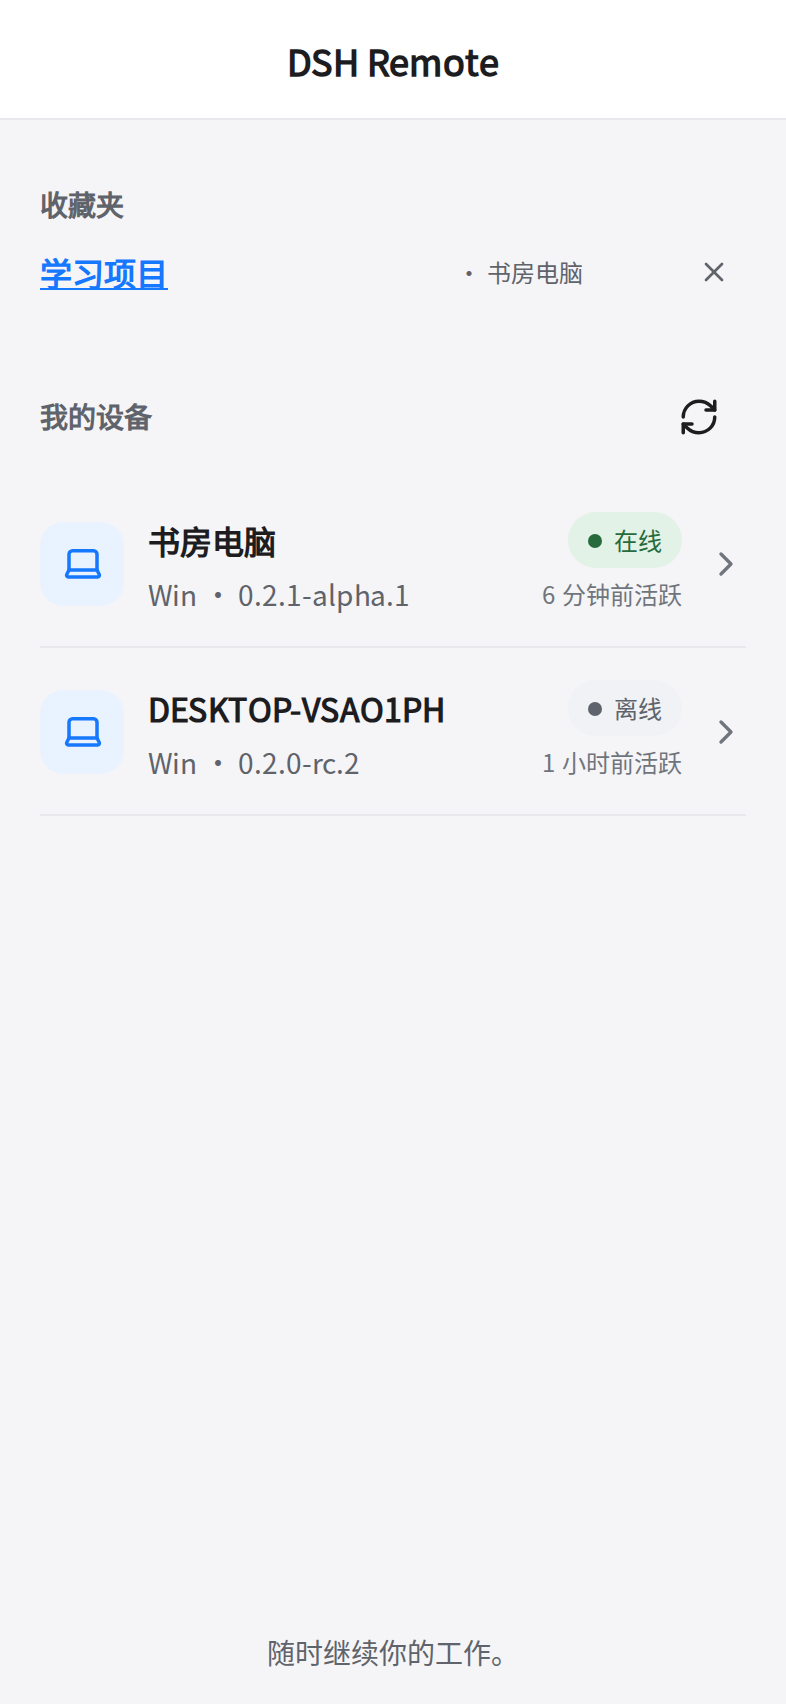
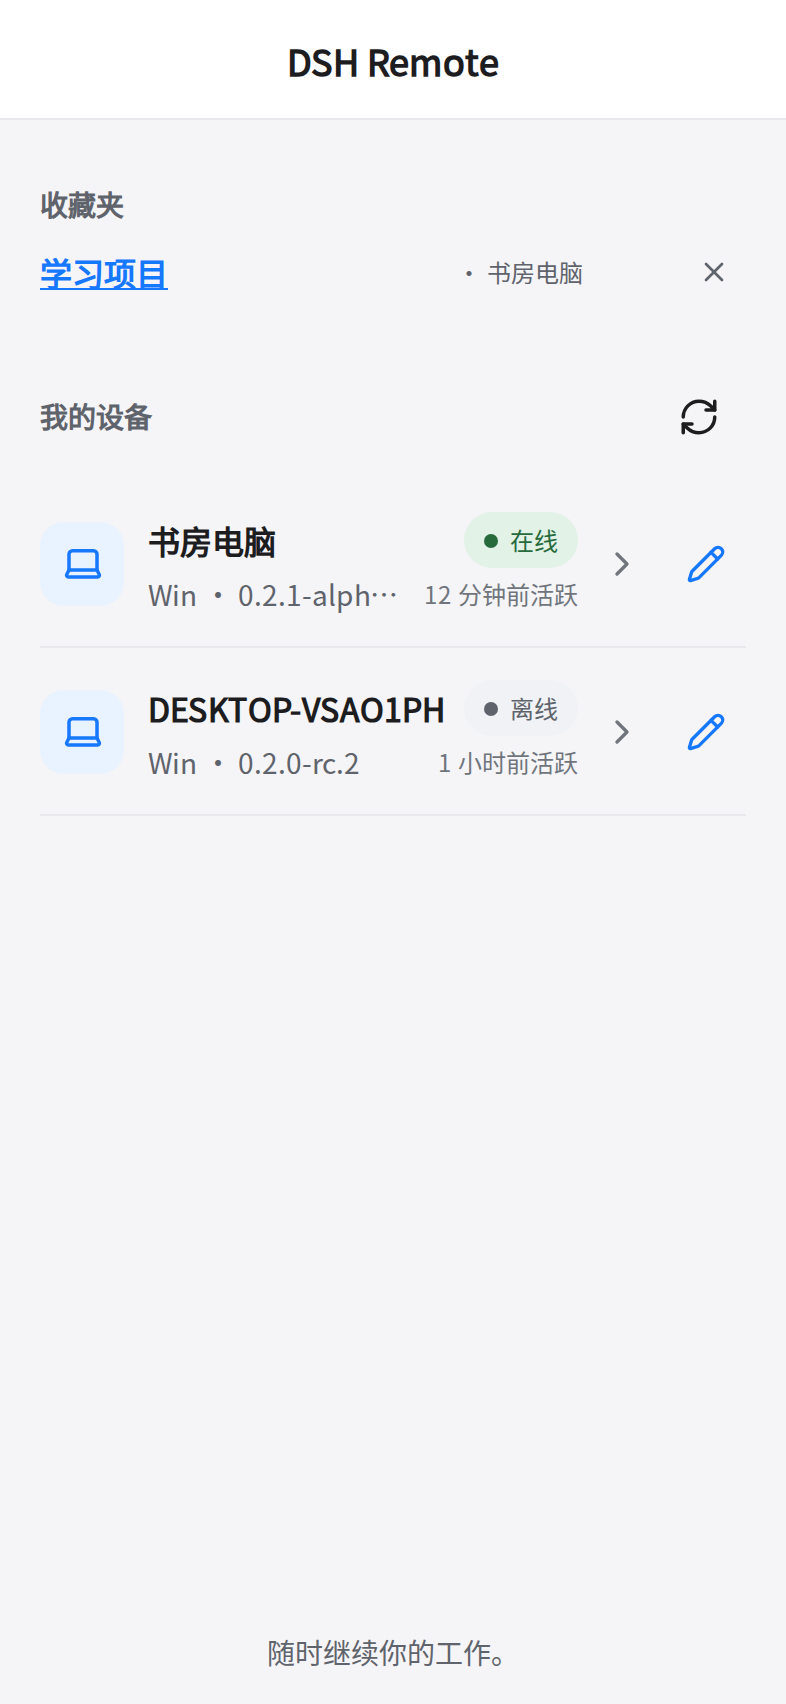
fix(android): expose device rename without connecting first

diff --git a/apps/android/src/screens/device-screens.tsx b/apps/android/src/screens/device-screens.tsx
@@ -40,11 +40,13 @@ export function DevicesScreen({ onDevice, onBack, onMore, onShortcut }: {
   const refreshing = useAppStore(state => state.refreshing)
   const refresh = useAppStore(state => state.refreshDevices)
   const forgetDevice = useAppStore(state => state.forgetDevice)
-  const removalPending = useAppStore(state => state.busyAction?.startsWith('forget:') === true)
+  const mutationPending = useAppStore(state => state.busyAction?.startsWith('forget:') === true
+    || state.busyAction?.startsWith('rename-device:') === true)
   const { colors } = useTheme()
   const styles = useThemedStyles(createStyles)
   const isHome = onBack === undefined
   const [openRowId, setOpenRowId] = useState<string>()
+  const [renameTarget, setRenameTarget] = useState<RemoteDevice>()
   // Removed rows stay mounted until their exit animation ends; the store drops them at once.
   const [leaving, setLeaving] = useState<ReadonlyMap<string, LeavingDevice>>(() => new Map())
   const initialDeviceIds = useRef(new Set(devices.map(device => device.deviceId)))
@@ -159,7 +161,7 @@ export function DevicesScreen({ onDevice, onBack, onMore, onShortcut }: {
                   open={openRowId === device.deviceId}
                   exiting={exiting}
                   animateIn={!initialDeviceIds.current.has(device.deviceId)}
-                  locked={removalPending}
+                  locked={mutationPending}
                   onOpenChange={open => setOpenRowId(current => open
                     ? device.deviceId
                     : current === device.deviceId ? undefined : current)}
@@ -169,6 +171,7 @@ export function DevicesScreen({ onDevice, onBack, onMore, onShortcut }: {
                     onDevice(device)
                   }}
                   onRemove={() => removeDevice(device)}
+                  onRename={() => { setOpenRowId(undefined); setRenameTarget(device) }}
                   onExited={() => forgetLeaving(device.deviceId)}
                 />
               ))}</View>}
@@ -178,6 +181,7 @@ export function DevicesScreen({ onDevice, onBack, onMore, onShortcut }: {
           <Text style={styles.homeFooterText}>{zhCN.devices.footer}</Text>
         </View>
       )}
+      {renameTarget !== undefined && <DeviceRenameModal device={renameTarget} onClose={() => setRenameTarget(undefined)} />}
     </View>
   )
 }
@@ -232,7 +236,7 @@ const SWIPE_SPRING = { damping: 18, stiffness: 220, mass: 0.9, useNativeDriver: 
 const nudge = (value: Animated.Value, toValue: number, duration: number) =>
   Animated.timing(value, { toValue, duration, easing: Easing.inOut(Easing.quad), useNativeDriver: true })
 
-function SwipeableDeviceRow({ device, open, exiting, animateIn, locked, onOpenChange, onPress, onRemove, onExited }: {
+function SwipeableDeviceRow({ device, open, exiting, animateIn, locked, onOpenChange, onPress, onRemove, onRename, onExited }: {
   device: RemoteDevice
   open: boolean
   exiting: boolean
@@ -241,6 +245,7 @@ function SwipeableDeviceRow({ device, open, exiting, animateIn, locked, onOpenCh
   onOpenChange: (open: boolean) => void
   onPress: () => void
   onRemove: () => Promise<boolean>
+  onRename: () => void
   onExited: () => void
 }) {
   const { colors } = useTheme()
@@ -410,16 +415,16 @@ function SwipeableDeviceRow({ device, open, exiting, animateIn, locked, onOpenCh
           </Pressable>
         </View>
         <Animated.View style={[styles.swipeContent, { transform: [{ translateX: offset }] }]} {...responder.panHandlers}>
-          <Pressable
-            accessibilityRole="button"
-            accessibilityLabel={device.name}
-            accessibilityActions={[{ name: 'delete', label: zhCN.devices.forget }]}
-            onAccessibilityAction={event => { if (event.nativeEvent.actionName === 'delete') void requestRemove() }}
-            disabled={busy || exiting}
-            onPress={onPress}
-            style={({ pressed }) => [styles.listRow, pressed && styles.listRowPressed]}
-          >
-            <View style={[styles.swipeContentInner, busy && styles.swipeContentBusy]}>
+          <View style={styles.listRow}>
+            <Pressable
+              accessibilityRole="button"
+              accessibilityLabel={device.name}
+              accessibilityActions={[{ name: 'delete', label: zhCN.devices.forget }]}
+              onAccessibilityAction={event => { if (event.nativeEvent.actionName === 'delete') void requestRemove() }}
+              disabled={busy || exiting}
+              onPress={onPress}
+              style={({ pressed }) => [styles.swipeContentInner, pressed && styles.listRowPressed, busy && styles.swipeContentBusy]}
+            >
               <View style={styles.rowIcon}><Laptop size={21} color={colors.primary} /></View>
               <View style={styles.rowCopy}>
                 <View style={styles.rowTitleLine}>
@@ -432,8 +437,9 @@ function SwipeableDeviceRow({ device, open, exiting, animateIn, locked, onOpenCh
                 </View>
               </View>
               <ChevronRight size={20} color={colors.subtle} />
-            </View>
-          </Pressable>
+            </Pressable>
+            <IconButton label={`${zhCN.devices.rename} ${device.name}`} icon={Pencil} tint={colors.primary} dense onPress={onRename} disabled={disabled} />
+          </View>
         </Animated.View>
       </Animated.View>
     </Animated.View>

diff --git a/apps/android/README.md b/apps/android/README.md
@@ -14,7 +14,8 @@ CodeX App Server domain advertised by the Host.
   `expo-secure-store`.
 - List same-account Harness hosts, fetch each host's authorized peer descriptor, verify its
   identity key, and pin it locally; a changed key fails closed and is never silently replaced.
-- Rename an online or offline Host from its device details (**Rename**). The name is saved
+- Rename an online or offline Host with the pencil button in the device list or **Rename**
+  in device details, without connecting first. The name is saved
   through the hosted Server's account-device API, matching Web management, and updates the
   device list, connected device and saved workspace shortcuts. Servers without this endpoint
   show an error and keep the original name.

diff --git a/docs/screenshots/issue-102/README.md b/docs/screenshots/issue-102/README.md
@@ -6,6 +6,7 @@
 
 ## 操作结果
 
+- 设备列表的铅笔按钮直接打开改名弹窗，不调用设备导航或连接；设备详情页保留同一入口。
 - 在线 Host 从 `CHINAMI-3IGFAUO` 改为 `书房电脑`；请求使用带鉴权的 `PATCH /api/v1/account/devices/host-online`，首尾空白在提交前清除。
 - 列表、已选设备、收藏和最近访问显示新名称；快捷入口名称已持久化。刷新、重新加载页面后仍使用服务端保存的名称。
 - 离线 Host 从 `DESKTOP-VSAO1PH` 改为 `备用电脑`，不要求先连接 Host。键盘提交可保存。

diff --git a/docs/CHANGELOG.md b/docs/CHANGELOG.md
@@ -2,7 +2,7 @@
 
 ## Unreleased
 
-- Adds Android Host renaming from device details, synced through the account-device API to device lists and saved workspace shortcuts.
+- Adds Android Host renaming from the device list and details, synced through the account-device API to device lists and saved workspace shortcuts.
 
 ## 0.5.2 - 2026-10-10
 
